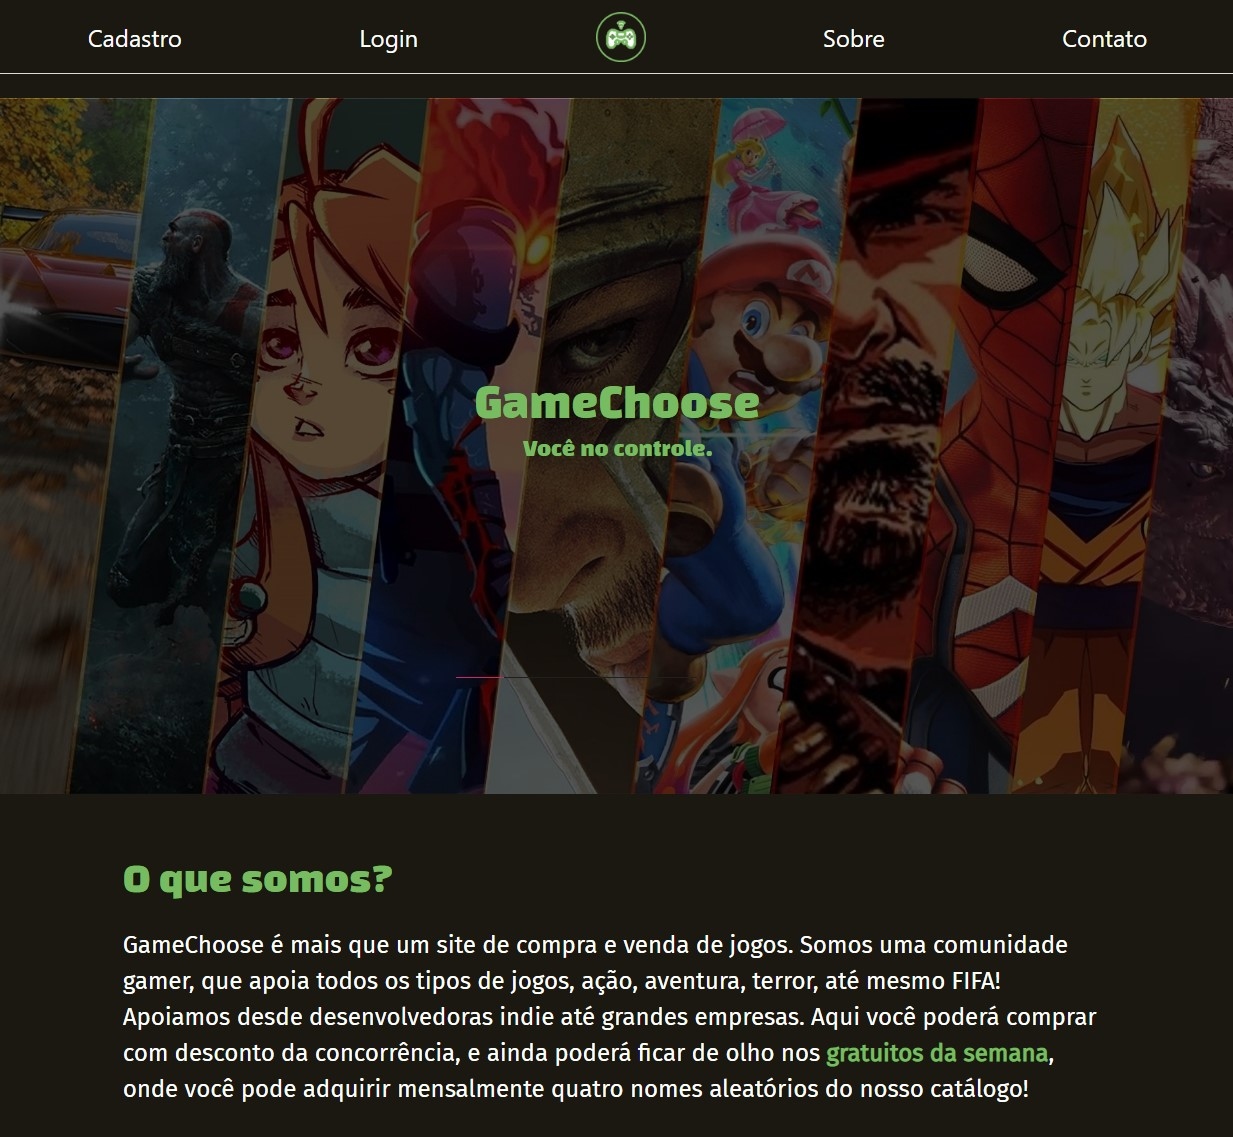
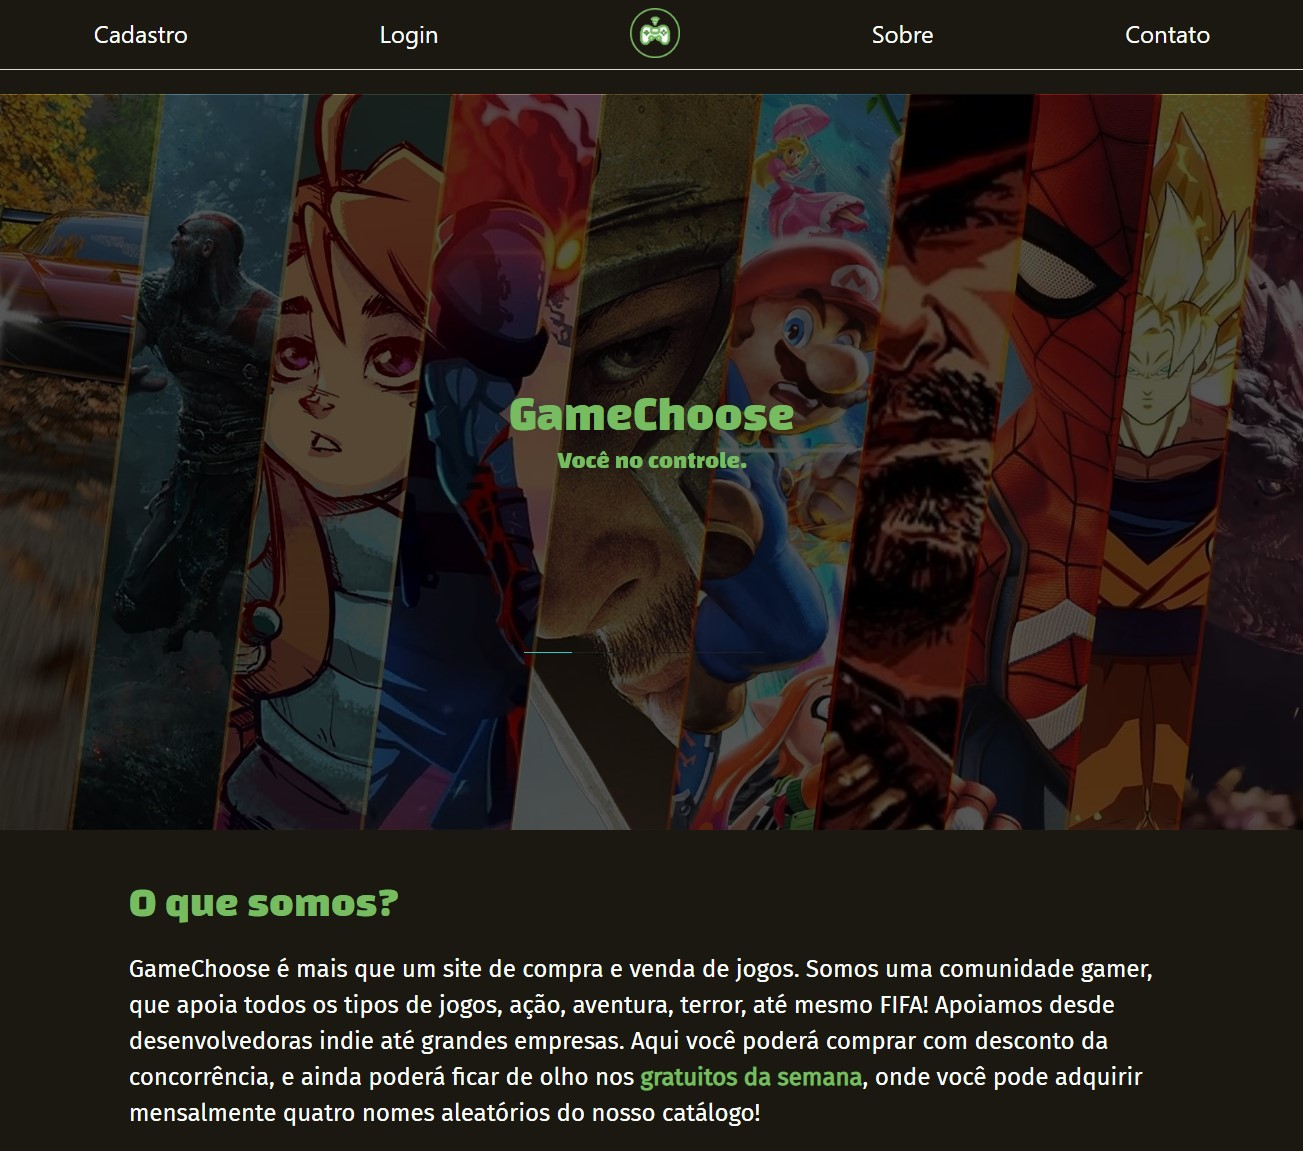
Alterações no readme, ajustes no layout

diff --git a/jogo.html b/jogo.html
@@ -47,27 +47,6 @@
                     onde as decisões tomadas definem a história 
                     e o mundo ao seu redor.
                 </p>
-                    
-                <p class="fira-preto content is-large">
-                    <strong>JOGUE COMO UM MERCENÁRIO FORA DA LEI</strong>
-                    Torne-se um cyberpunk — um mercenário urbano equipado 
-                    com melhorias cibernéticas — e construa a sua lenda 
-                    nas ruas de Night City. 
-                </p>
-                <br/>
-                <p class="fira-preto content is-large">
-                    <strong>VIVA NA CIDADE DO FUTURO</strong>
-                    Entre no enorme mundo aberto de Night City, 
-                    um lugar que define novos padrões no quesito 
-                    de complexidade, profundidade e visual.
-                </p>
-                <br/>
-                <p class="fira-preto content is-large">
-                    <strong>ROUBE O IMPLANTE QUE CONCEDE A VIDA ETERNA</strong>
-                    Aceite o trabalho mais arriscado da sua vida e 
-                    corra atrás de um protótipo de implante com a 
-                    chave da imortalidade.
-                </p>
 
                 <p class="fira-preto content is-large"><strong>Categorias:</strong> RPG, ação</p>
                 <table class="table is-striped">

diff --git a/cadastro.html b/cadastro.html
@@ -48,6 +48,11 @@
                   <div class="control">
                       <input class="input is-medium fira-preto is-success textbox" type="password">
                   </div>
+
+                  <label class="label is-medium fira-preto">Confirmar senha:</label>
+                  <div class="control">
+                      <input class="input is-medium fira-preto is-success textbox" type="password">
+                  </div>
                 
                   <label class="label is-medium fira-preto">Foto:</label>
                   <div class="file textbox">

diff --git a/css/estilo.css b/css/estilo.css
@@ -77,7 +77,7 @@ body{
 #conteudo-index{
     width:80%;
     margin: 0 auto;
-    margin-top: 5;
+    margin-top: 50px;
 }
 
 /* Poderia colocar a class Changa nesses H2,
@@ -142,6 +142,8 @@ footer{
 #container-inicio{
     margin: 0 auto;
     width:90%;
+    margin-top: 50px;
+    margin-bottom: 50px;
 }
 
 #icones{
@@ -228,7 +230,7 @@ footer{
 }
 
 .pesquisa{
-    background: url(/img/lupa-cinza.png) no-repeat left center;
+    background: url(../img/lupa-cinza.png) no-repeat left center;
     padding-left: 35px;
 }
 

diff --git a/README.md b/README.md
@@ -1,7 +1,7 @@
 <div align="center">
   <img style="float:left;" src="https://img.shields.io/static/v1?label=Front-end&message=99%&color=78BC61&style=for-the-badge&logo=ghost"/>
   <img style="float:left;" src="https://img.shields.io/static/v1?label=Back-end&message=0%&color=78BC61&style=for-the-badge&logo=ghost"/>
-  <img style="float:left;" src="https://img.shields.io/static/v1?label=Banco&message=40%&color=78BC61&style=for-the-badge&logo=ghost"/>
+  <img style="float:left;" src="https://img.shields.io/static/v1?label=Banco&message=99%&color=78BC61&style=for-the-badge&logo=ghost"/>
 </div>
 
 <h1 align="center">
@@ -49,6 +49,7 @@
     <li>HTML</li>
     <li>CSS</li>
     <li><a href="https://bulma.io">Bulma</a></li>
+    <li><a href="https://www.javascript.com">JavaScript</a></li>
   </ul>
 </div> 
 
@@ -58,21 +59,22 @@
 <div id="como-rodar">
   <p>Como o projeto ainda não está concluído, não está na web. Porém quando estiver concluído, irei postá-lo e realizar manutenções para mantê-lo ativo.</p>
   <p>Aqui estão algumas telas:</p>
-  <h3>Tela Inicial:</h3>
-  <hr>
+
+  <h2 align="center" style="line-height:60px"><strong>Tela Inicial</strong></h2>
   <img src="./img/printscreens/index-1.jpg">
   <img src="./img/printscreens/index-2.jpg">
-  <br>
   
-  <h3>Início:</h3>
-  <hr>
+  <h2 align="center" style="line-height:60px"><strong>Início</strong></h2>
   <img src="./img/printscreens/inicio.jpg">
-  <br>
   
-  <h3>Loja:</h3>
-  <hr>
+  <h2 align="center" style="line-height:60px"><strong>Loja</strong></h2>
   <img src="./img/printscreens/loja.jpg">
-  <br>
+
+  <h2 align="center" style="line-height:60px"><strong>Jogo</strong></h2>
+  <img src="./img/printscreens/jogo-1.jpg">
+  <img src="./img/printscreens/jogo-2.jpg">
+
+  
 </div>
 
 ---
